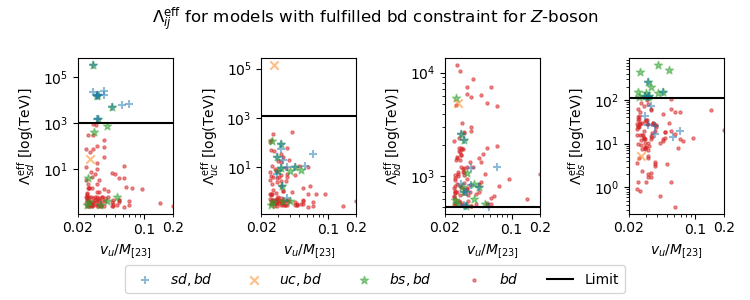
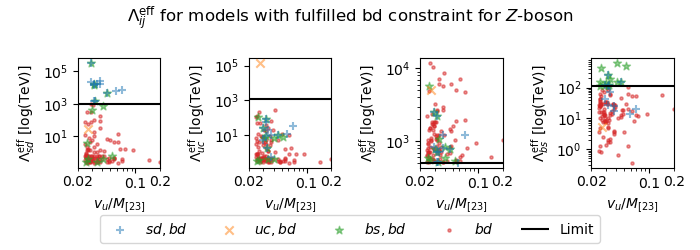
wide search primed

diff --git a/simplemodel.py b/simplemodel.py
@@ -138,8 +138,11 @@ def solve_for_ys(ys,y3_u, y3_d,v_us,v_ds, V, M_Us, m_us, m_ds):
     #base_SM_Z = np.array([(g**2)/np.sqrt(g**2 + g_prim**2), (g_prim**2)/np.sqrt(g**2 + g_prim**2)])
     #base_SM_gamma = np.array([(g*g_prim)/np.sqrt(g**2 + g_prim**2), (g*g_prim)/np.sqrt(g**2 + g_prim**2)])
 
-    compare_Qs = np.concatenate((Q_compare("u", V[:,1], base_SM_Z, U_u_L, Uh_u_R), Q_compare("u", V[:,0], base_SM_gamma, U_u_L, Uh_u_R),
-                                 Q_compare("d", V[:,1], base_SM_Z, U_d_L, Uh_d_R), Q_compare("d", V[:,0], base_SM_gamma, U_d_L, Uh_d_R)))
+#    compare_Qs = np.concatenate((Q_compare("u", V[:,1], base_SM_Z, U_u_L, Uh_u_R), Q_compare("u", V[:,0], base_SM_gamma, U_u_L, Uh_u_R),
+#                                 Q_compare("d", V[:,1], base_SM_Z, U_d_L, Uh_d_R), Q_compare("d", V[:,0], base_SM_gamma, U_d_L, Uh_d_R)))
+    compare_Qs = np.concatenate(Q_compare("u", V[:,1], base_SM_Z, U_u_L, Uh_u_R),
+                                 Q_compare("d", V[:,1], base_SM_Z, U_d_L, Uh_d_R))
+ 
  #   print(compare_Qs.shape)
     
     V_CKM_calc = np.dot(np.transpose(U_u_L), U_d_L) 
@@ -174,8 +177,10 @@ def alt_solve_for_ys(ys,g,g_prim,v_us,v_ds, V, M_Us, m_us, m_ds):
     
     base_SM_Z = fs.get_base_Z(g,g_prim)
     base_SM_gamma = fs.get_base_gamma()
-    compare_Qs = np.concatenate((Q_compare("u", V[:,1], base_SM_Z, U_u_L, Uh_u_R), Q_compare("u", V[:,0], base_SM_gamma, U_u_L, Uh_u_R),
-                                 Q_compare("d", V[:,1], base_SM_Z, U_d_L, Uh_d_R), Q_compare("d", V[:,0], base_SM_gamma, U_d_L, Uh_d_R)))
+#    compare_Qs = np.concatenate((Q_compare("u", V[:,1], base_SM_Z, U_u_L, Uh_u_R), Q_compare("u", V[:,0], base_SM_gamma, U_u_L, Uh_u_R),
+#                                 Q_compare("d", V[:,1], base_SM_Z, U_d_L, Uh_d_R), Q_compare("d", V[:,0], base_SM_gamma, U_d_L, Uh_d_R)))
+    compare_Qs = np.concatenate(Q_compare("u", V[:,1], base_SM_Z, U_u_L, Uh_u_R),
+                                 Q_compare("d", V[:,1], base_SM_Z, U_d_L, Uh_d_R))
     
     V_CKM_calc = np.dot(np.transpose(U_u_L), U_d_L) 
     CKM_compare = (np.abs(V_CKM_calc[:3,:3])-np.abs(conts.V_CKM)).flatten()
@@ -186,7 +191,8 @@ def alt_solve_for_ys(ys,g,g_prim,v_us,v_ds, V, M_Us, m_us, m_ds):
 def get_g_models(filename, g, search_for_gs = False, verbose = False):
     if search_for_gs:
         v_chis = np.arange(1000,10000,10)
-        m_Z3s = np.arange(1000,10000,10)
+        #m_Z3s = np.arange(1000,10000,10)
+        m_Z3s = np.arange(4000,10000,(10000-4000)/len(v_chi))
         model_list = []
         tmp_list = []
         for v_chi in tqdm(v_chis):
@@ -195,18 +201,20 @@ def get_g_models(filename, g, search_for_gs = False, verbose = False):
             for m_Z3 in m_Z3s: 
                 #print(f"On m_z3 {m_Z3}")
                 v_phi = int(v_chi*np.random.uniform(1.5,5))
-                v_sigma = 10*v_chi + np.random.randint(0,100)
+                #v_sigma = 10*v_chi + np.random.randint(0,100)
+                v_sigma = int(v_phi*np.random.uniform(2,8))
                 m_Z3prim = int(m_Z3*np.random.uniform(1.5,5))
-                m_Z12 = m_Z3*10 + np.random.randint(0,100)
+                m_Z12 = int(m_Z3prim*np.random.uniform(2,8))
+                #m_Z12 = m_Z3*10 + np.random.randint(0,100)
                 # Let's do this fsolve for a range of ms and vs, with conditions on the grid :)
-                gs = np.random.uniform(0.01,2,4)
+                gs = np.random.uniform(0.01,5,4)
                 vs = np.array([conts.v_H, v_chi, v_phi, v_sigma])
                 mzs = np.array([conts.m_Z, m_Z3, m_Z3prim, m_Z12])
                 gs, infodict,ier,mesg = fsolve(closest_Z_mass, gs,args=(mzs, g, vs), full_output=True, factor = 0.1)
                 diff = infodict["fvec"]
                 #print(gs)
                 
-                if all(gs <= 2)  and all(gs > 0.01) and all(np.abs(diff) < 1e-5):
+                if all(gs <= 5)  and all(gs > 0.01) and all(np.abs(diff) < 1e-5):
                     tmp_list = [mzs, vs, gs]
                     model_list.append(tmp_list)
                     if verbose:
@@ -236,7 +244,7 @@ def get_y_models(filename, search_for_ys = False, g_model_list = None, cost_tol 
         m_ds = np.array([conts.m_d, conts.m_s, conts.m_b])
         m_us = np.array([conts.m_u, conts.m_c, conts.m_t])
         successes = 0
-        M_23s = np.linspace(1000,10000, m_repeats)
+        M_23s = np.linspace(1000,15000, m_repeats)
         #M_12s = 10*M_23s + np.random.randint(1,100, len(M_23s))
 
         for g_idx, g_model in enumerate(tqdm(g_model_list)):
@@ -252,8 +260,10 @@ def get_y_models(filename, search_for_ys = False, g_model_list = None, cost_tol 
             valid_idxs = np.argwhere(M_23s > vs[1]).flatten()
             for idx in valid_idxs:
                 M_23 = M_23s[idx]
-                M_12 = 10*M_23 + np.random.randint(1,100)
+                M_12 = np.random(6,14)*M_23
+                #M_12 = 10*M_23 + np.random.randint(1,100)
                 tan_beta = np.random.randint(10,100)
+                #tan_beta = 10
                 #M_23 = np.random.randint(1000,10000)
                 
                 M_Us = np.array([M_23, M_23, M_12])
@@ -515,36 +525,43 @@ def pick_g_models(in_model_list, n_idxs = 1):
     print(v_list[random_idxs])
     return out_model_list
 
+
+def calc_grid(g_model_list, m_repeats):
+    M_23s = np.linspace(1000,10000, m_repeats)
+    #M_12s = 10*M_23s + np.random.randint(1,100, len(M_23s))
+    c_sum = 0
+    for g_idx, g_model in enumerate(tqdm(g_model_list)):
+        vs = g_model[1,:]
+        valid_idxs = np.argwhere(M_23s > vs[1]).flatten()
+        c_sum += len(valid_idxs)
+    return c_sum
+
 if __name__ == "__main__":
     # According to definition
     g = conts.e_em/np.sqrt(conts.sw2)
     g_prim = conts.e_em/np.sqrt(1-conts.sw2)
     
     # Get models for gs
-    search_for_gs = False
+    search_for_gs = True
     search_for_ys = False
     g_plotting = False
-    y_plotting = True
+    y_plotting = False
     picking_gs = False
     refining_ys = False
 
     if picking_gs:
-        g_filename = "correct_g_models_again.npz"
+        #g_filename = "correct_g_models_again.npz"
+        g_filename = "g_models_wide.npz"
     else:
-        g_filename = "saved_g_models.npz"
+        #g_filename = "saved_g_models.npz"
+        g_filename = "saved_g_models_wide.npz"
     g_model_list = get_g_models(g_filename, g, search_for_gs)
     if picking_gs:
         g_model_list = pick_g_models(g_model_list, n_idxs=5)
-        np.savez("saved_g_models.npz", *g_model_list)
+        np.savez("saved_g_models_wide.npz", *g_model_list)
+    c_sum = calc_grid(g_model_list, 40)
+    print(c_sum)
     
-    
-    #y_filename = "y_models_dof_28_3.npz"
-    #
-    #y_filename = "sd_list.npz"
-    #y_filename = "uc_list.npz"
-    #y_filename = "bd_list.npz"
-    #y_filename = "bd_list.npz"
-    #good_index = 1
     looping = False
     
     y_filenames = ["sd_list.npz", "uc_list.npz", "bd_list.npz", "bs_list.npz"]
@@ -555,10 +572,12 @@ if __name__ == "__main__":
             y_model_lists.append(get_y_models(y_filename, search_for_ys, g_model_list, cost_tol=0.3, max_iters=20, m_repeats=40, verbose=False, alt = True))
     else:
         #y_filename = "y_models_dof_28_3.npz"
-        y_filename = "refined_y_dof_28_2_1.npz"
+        #y_filename = "refined_y_dof_28_2_1.npz"
         #y_filename = "valid_y_models.npz"
+        y_filename = "y_models_wide.npz"
         y_model_lists = [get_y_models(y_filename, search_for_ys, g_model_list, cost_tol=0.3, max_iters=20, m_repeats=40, verbose=False, alt = True)]
 
+    #TODO: Check couplings for light families to new Z-bosons to ascertain lower mass limit
 
     #list_names = ["sd_list.npz", "uc_list.npz", "bd_list.npz", "bs_list.npz"]
 
@@ -608,7 +627,7 @@ if __name__ == "__main__":
 
         v_res = linregress(v_chi_list, v_phi_list)
         m_res = linregress(m_Z3_list, m_Z3prim_list)
-        fig, axs = plt.subplots(1,2, figsize = (7,5))
+        fig, axs = plt.subplots(1,2, figsize = (7,4))
         axs[0].scatter(v_chi_list, v_phi_list, s = 2, label = "data")
         axs[0].plot(v_chi_list, v_chi_list*v_res.slope + v_res.intercept, "r", label = f"slope = {v_res.slope:.3f}")
         axs[0].plot(v_chi_list, v_chi_list*1.5, label = r"$\times 1.5$ limit")
@@ -749,7 +768,7 @@ if __name__ == "__main__":
                 if not looping:
                     if (tot_L_diffs[2:] > 0).all() and tot_L_diffs[0] > 0:
                         if valid_model_check:
-                            print("Found valid model")
+                            print("\nFound valid model")
                         
                             g_model = g_model_list[y_model[4]]
                             print(f"y_model: {y_model}")
@@ -777,7 +796,8 @@ if __name__ == "__main__":
             c_strings = [r"\Lambda_{sd}^{\text{eff}}", r"\Lambda_{uc}^{\text{eff}}", r"\Lambda_{bd}^{\text{eff}}",
                         r"\Lambda_{bs}^{\text{eff}}"]
             simp_c_strings = ["sd_LL", "uc_LL", "bd_LL", "bs_LL"]
-            fig, axs = plt.subplots(1,4,figsize=(7.5,3))
+
+            fig, axs = plt.subplots(1,4,figsize=(7,2.5))
             lines = [None]*5
             if looping:
                 indices = np.arange(0,4)

diff --git a/compmodel.py b/compmodel.py
@@ -3,21 +3,27 @@ import numpy as np
 import sympy as sp
 
 def get_F_down_simple(u_L, d_L, u_R, d_R, gs):
-    F_ij = np.array([0, gs[0]*u_R, gs[1]*d_L, 0],
+    F_ij = np.array([[0, gs[0]*u_R, gs[1]*d_L, 0],
                     [-gs[2]*u_R, 0, gs[3]*u_L, 0],
-                    [gs[4]*d_L, gs[5]*u_L, 0, gs[6]*u_R,
+                    [gs[4]*d_L, gs[5]*u_L, 0, gs[6]*u_R],
                      [0,0, gs[7]*u_R, gs[8]*d_R]])
     return F_ij
 
 def get_F_up_simple(u_L, d_L, u_R, d_R, gs):
-    F_ij = np.array([gs[0]*u_R,0, gs[1]*u_L, 0],
+    F_ij = np.array([[gs[0]*u_R,0, gs[1]*u_L, 0],
                     [ 0, -gs[2]*u_R, gs[3]*d_L, 0],
                     [0,0,gs[4]*u_R, gs[5]*d_R],
-                    [[gs[6]*d_L,0, gs[7]*u_L, gs[8]*u_R]])
+                    [gs[6]*d_L,0, gs[7]*u_L, gs[8]*u_R]])
     return F_ij
 
 def get_omega(theta):
-    omega = np.array([[0, np.cos(theta), 0 , np.sin(theta)],
+    if type(theta) == sp.Symbol:
+        omega = np.array([[0, sp.cos(theta), 0 , sp.sin(theta)],
+                      [-sp.cos(theta), 0, -sp.sin(theta), 0],
+                      [0, sp.sin(theta), 0, -sp.cos(theta)],
+                      [-sp.sin(theta), 0, sp.cos(theta), 0]])
+    else:   
+        omega = np.array([[0, np.cos(theta), 0 , np.sin(theta)],
                       [-np.cos(theta), 0, -np.sin(theta), 0],
                       [0, np.sin(theta), 0, -np.cos(theta)],
                       [-np.sin(theta), 0, np.cos(theta), 0]])
@@ -26,21 +32,100 @@ def get_omega(theta):
 def sym_term_one(F_down, y, omega, mu_1, mu_5 ,mu_10):
     a = np.trace(F_down @ omega.T) * np.trace(F_down @ omega.T)
     b = np.trace((F_down.T @ omega) @ (F_down @ omega.T))
-    c = -np.trace((F_down @ omega) @ (F_down @ omega.T))
-    d = -0.5*a
+    c = np.trace((F_down @ omega) @ (F_down @ omega.T))
+    d = 0.5*a
     e = b
     f = c
-    return y**2*(mu_1*a + mu_5*(b+c+d) + mu_10*(e+f))
+    return y**2*(mu_1*a + mu_5*(b-c-d) + mu_10*(e+f))
 
 def sym_term_two(F_down, F_up, y, omega, mu_1, mu_5, mu_10):
     a = np.trace(F_down @ omega.T) * np.trace(F_up)
-    return
+    b = np.trace((F_up @ F_down) @ omega.T)
+    c = np.trace((F_down @ F_up) @ omega.T)
+    d = 0.5*a
+    e = b
+    f = c
+    return y * y.conjugate() *(mu_1*a + mu_5*(b-c-d) + mu_10*(e+f))
 
-def sym_term_three():
-    pass
+def sym_term_three(F_up, y, omega, mu_1, mu_5, mu_10):
+    a = np.trace(F_up)**2
+    b = np.trace(F_up @ F_up)
+    c = np.trace((omega @ F_up) @ (F_up @ omega))
+    d = 0.5*a
+    e = c
+    f = b
+    return y.conjugate()**2 * (mu_1*a + mu_5*(b-c-d) + mu_10*(e+f))
 
-def sym_lagrangian_simple(gs, y, mus, theta):
-    u_R,d_L,u_L,d_R = sp.symbols("u_R d_L u_L d_R", real = True)
-    F_down = get_F_down_simple(u_L,d_L,u_R, d_R, gs)
-    F_up = get_F_up_simple(u_L,d_L,u_R, d_R, gs)
+def sym_lagrangian_simple(u_R,d_L,u_L,d_R,gs_down, gs_up, y, mus, theta):
+    F_down = get_F_down_simple(u_L,d_L,u_R, d_R, gs_down)
+    F_up = get_F_up_simple(u_L,d_L,u_R, d_R, gs_up)
     omega = get_omega(theta)
+    term_one = sym_term_one(F_down, y, omega, mus[0], mus[1], mus[2])
+    print(f"term_one:{term_one}\n")
+    term_two = sym_term_two(F_down, F_up, y, omega, mus[3], mus[4], mus[5])
+    print(f"term_two:{term_two}\n")
+    term_three = sym_term_one(F_up, y, omega, mus[6], mus[7], mus[8])
+    print(f"term_three:{term_three}\n")
+    lagrangian = term_one + term_two + term_three
+    return lagrangian
+
+if __name__ == "__main__":
+    syms = True
+    if syms:    
+        [gu1, gQ1, gQ2, gu2, gu3, gd1, gu4,gQ3,gu5,gd2,gQ4,gu6] = sp.symbols(['gu1', 'gQ1', 'gQ2', 'gu2', 'gu3', 'gd1', 'gu4','gQ3','gu5','gd2','gQ4','gu6'])
+        gs_down = [gu1, gQ1, gu1, gQ1, gQ2, gQ2, gu2, gu3, gd1]
+        gs_up = [gu4, gQ3, gu4, gQ3, gu5, gd2, gQ4, gQ4, gu6]
+        y = sp.symbols('y')
+        #y = 1
+        mus = sp.symbols(['mu1', 'mu5', 'mu10', 'mu1p', 'mu5p', 'mu10p', 'mu1pp', 'mu5pp', 'mu10pp'])
+        #mus = np.ones(9)
+        theta = sp.symbols('theta')
+        #theta = np.pi/4
+    else:
+        gs_down = np.ones(9)
+        gs_up = np.ones(9)
+        y = 1
+        mus = np.ones(9)
+        theta = np.pi/4
+
+
+    u_R,d_L,u_L,d_R = sp.symbols("u_R d_L u_L d_R", real = True)
+    lagrangian = sym_lagrangian_simple(u_R,d_L,u_L,d_R, gs_down,gs_up, y, mus, theta)
+    #lagrangian = sp.separatevars(lagrangian)
+    lagrangian_list = [sp.collect(lagrangian, y**2, evaluate = False), sp.collect(lagrangian, y*sp.conjugate(y), evaluate = False)]
+    key_list = [y**2, y*sp.conjugate(y)]
+    #lagrangian = lagrangian_dict[y]
+    print(f"\nLagrangian: {lagrangian}\n")
+    
+    #lagrangian = lagrangian.subs(u_R*u_L, x)
+    u_term = 0
+    d_term = 0
+    for i, lagrangian_dict in enumerate(lagrangian_list):
+        lagrangian = sp.separatevars(lagrangian_dict[key_list[i]])
+        print(f"{lagrangian} \n")
+        u_terms = sp.collect(lagrangian, u_R*u_L, evaluate=False)
+        d_terms = sp.collect(lagrangian, d_R*d_L, evaluate=False)
+        u_term += key_list[i]*u_terms[u_R*u_L]
+        d_term += key_list[i]*d_terms[d_R*d_L]
+        #u_term = y*u_terms[u_R*u_L]
+    #d_term = y*d_terms[d_R*d_L]
+    #u_term = sp.collect_const(lagrangian, u_R)
+    v_f = sp.symbols('v_f')
+    gQ, gd, gu = sp.symbols('gQ ,gd, gu')
+    u_term_simp = u_term.subs(sp.sin(theta), v_f)
+    u_term_simp = u_term_simp.subs(sp.cos(theta), 1)
+    u_term_simp = u_term_simp.subs([(gQ1, gQ), (gQ2, gQ), (gQ3, gQ), (gQ4, gQ)])
+    u_term_simp = u_term_simp.subs([(gu1, gu), (gu2,gu),(gu3,gu),(gu4,gu),(gu5,gu),(gu6,gu)])
+    d_term_simp = d_term.subs(sp.sin(theta), v_f)
+    d_term_simp = d_term_simp.subs(sp.cos(theta), 1)
+    d_term_simp = d_term_simp.subs([(gQ1, gQ), (gQ2, gQ), (gQ3, gQ), (gQ4, gQ)])
+    d_term_simp = d_term_simp.subs([(gd1, gd), (gd2,gd)])
+    # Check that all terms are linear in v_f
+    u_term_simp = sp.collect(u_term_simp, v_f*gQ*gu)
+    d_term_simp = sp.collect(d_term_simp, v_f*gQ*gd)
+    #print(u_term.keys())
+    print(f"\nu-terms: {u_term}")
+    print(f'\nsimp u_terms: {u_term_simp}')
+    print(f"\nd-terms: {d_term}")
+    print(f'\nsimp d_terms: {d_term_simp}')
+   
